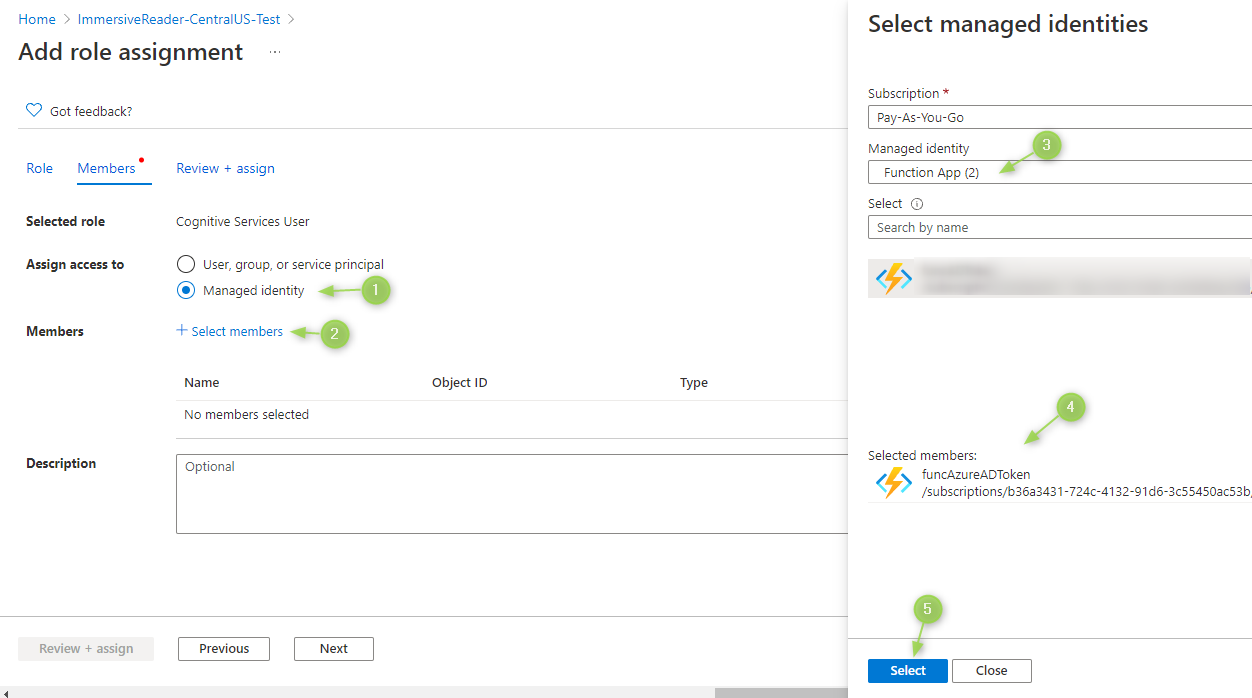
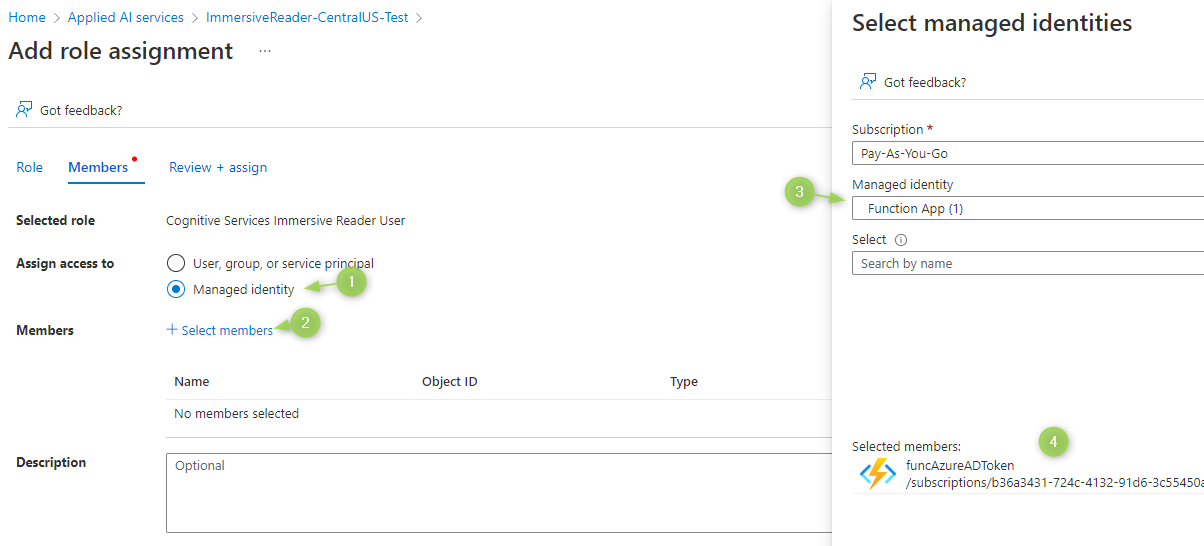
update MI pictures and readme

diff --git a/js/samples/azure-function-csharp/Readme.md b/js/samples/azure-function-csharp/Readme.md
@@ -139,7 +139,7 @@ Follow the next steps to add permissions to your Immersive Reader resource for t
 
     ![Select Access Control IAM](images/azid4.png)
 
-6. Select **Cognitive Services User** role and press **Next**.
+6. Select **Cognitive Services Immersive Reader User** role and press **Next**.
 
     ![Select Cognitive Services User role](images/azid6.png)
 
